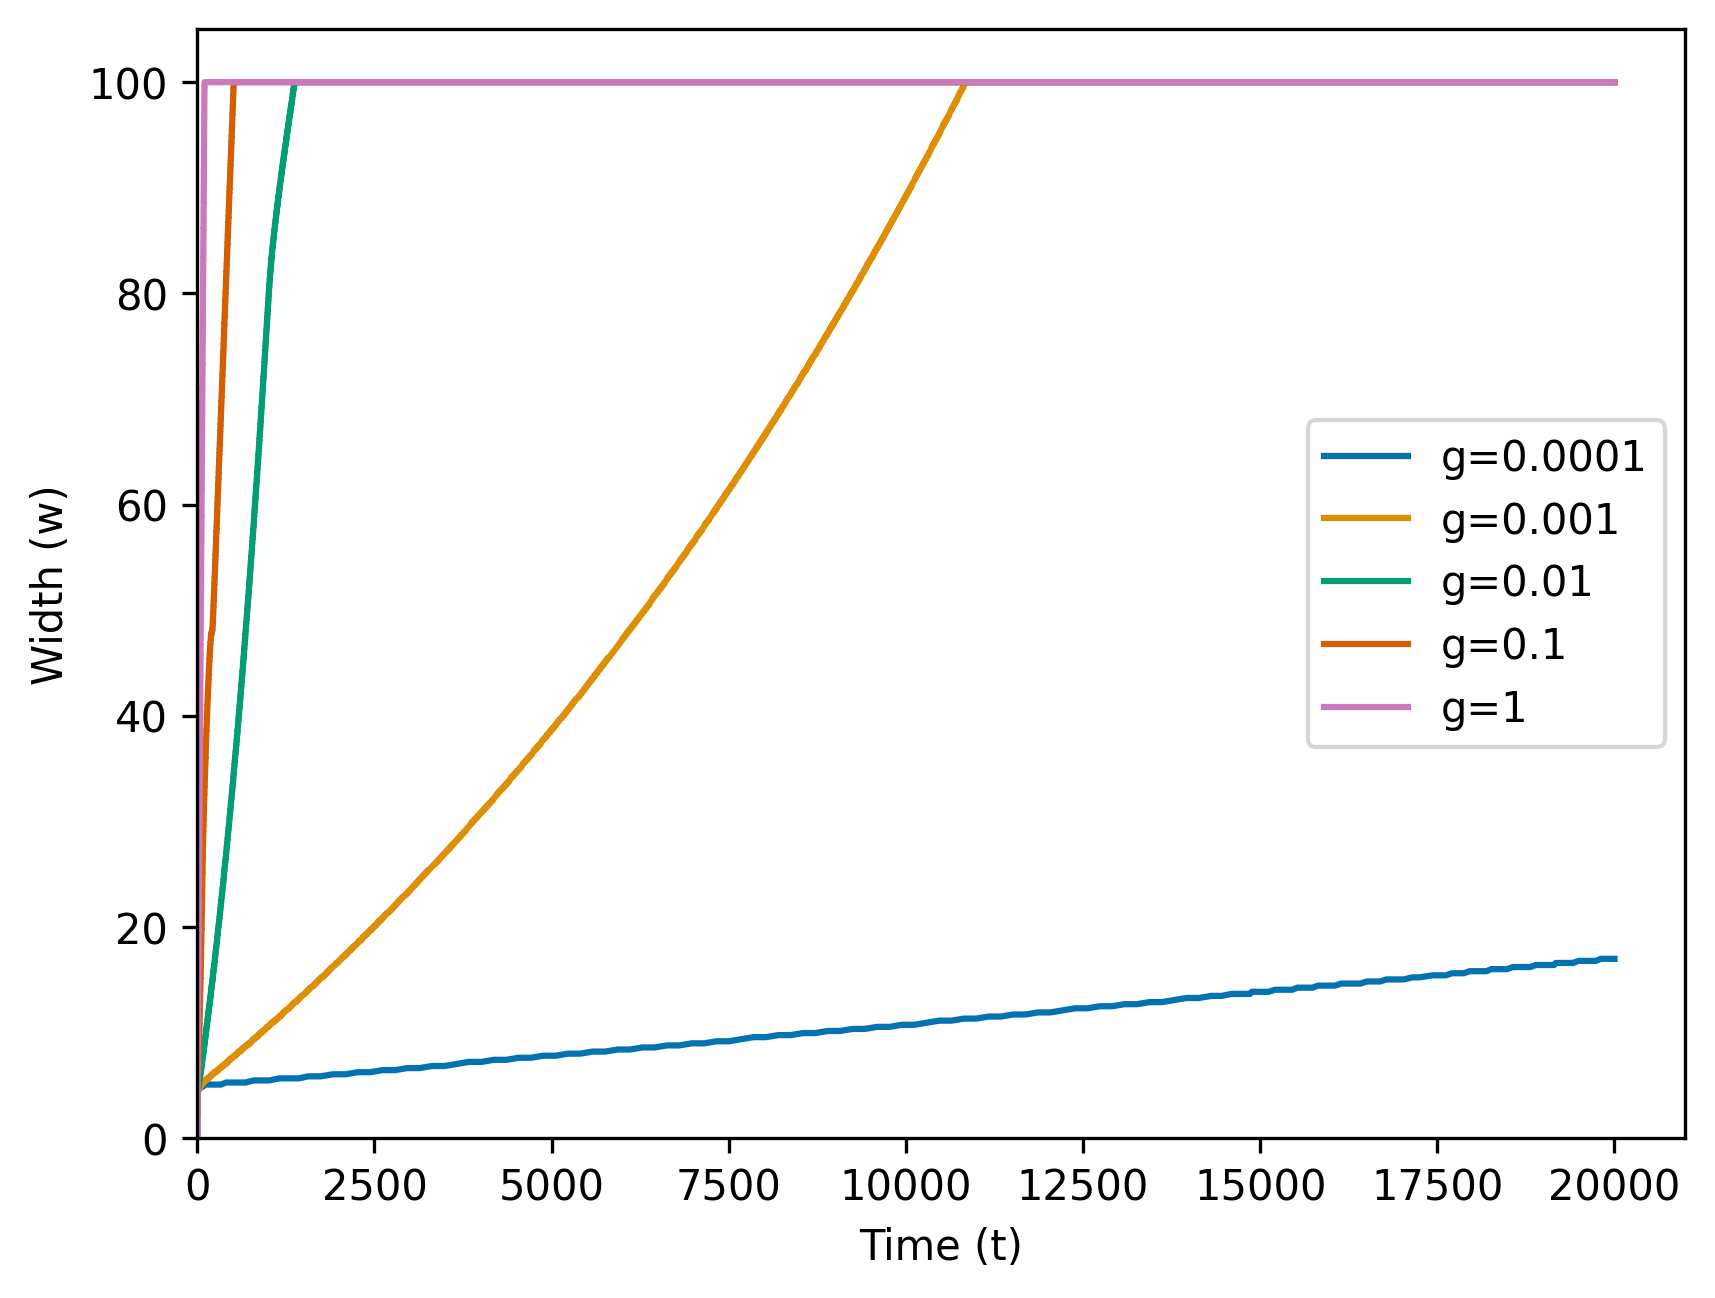
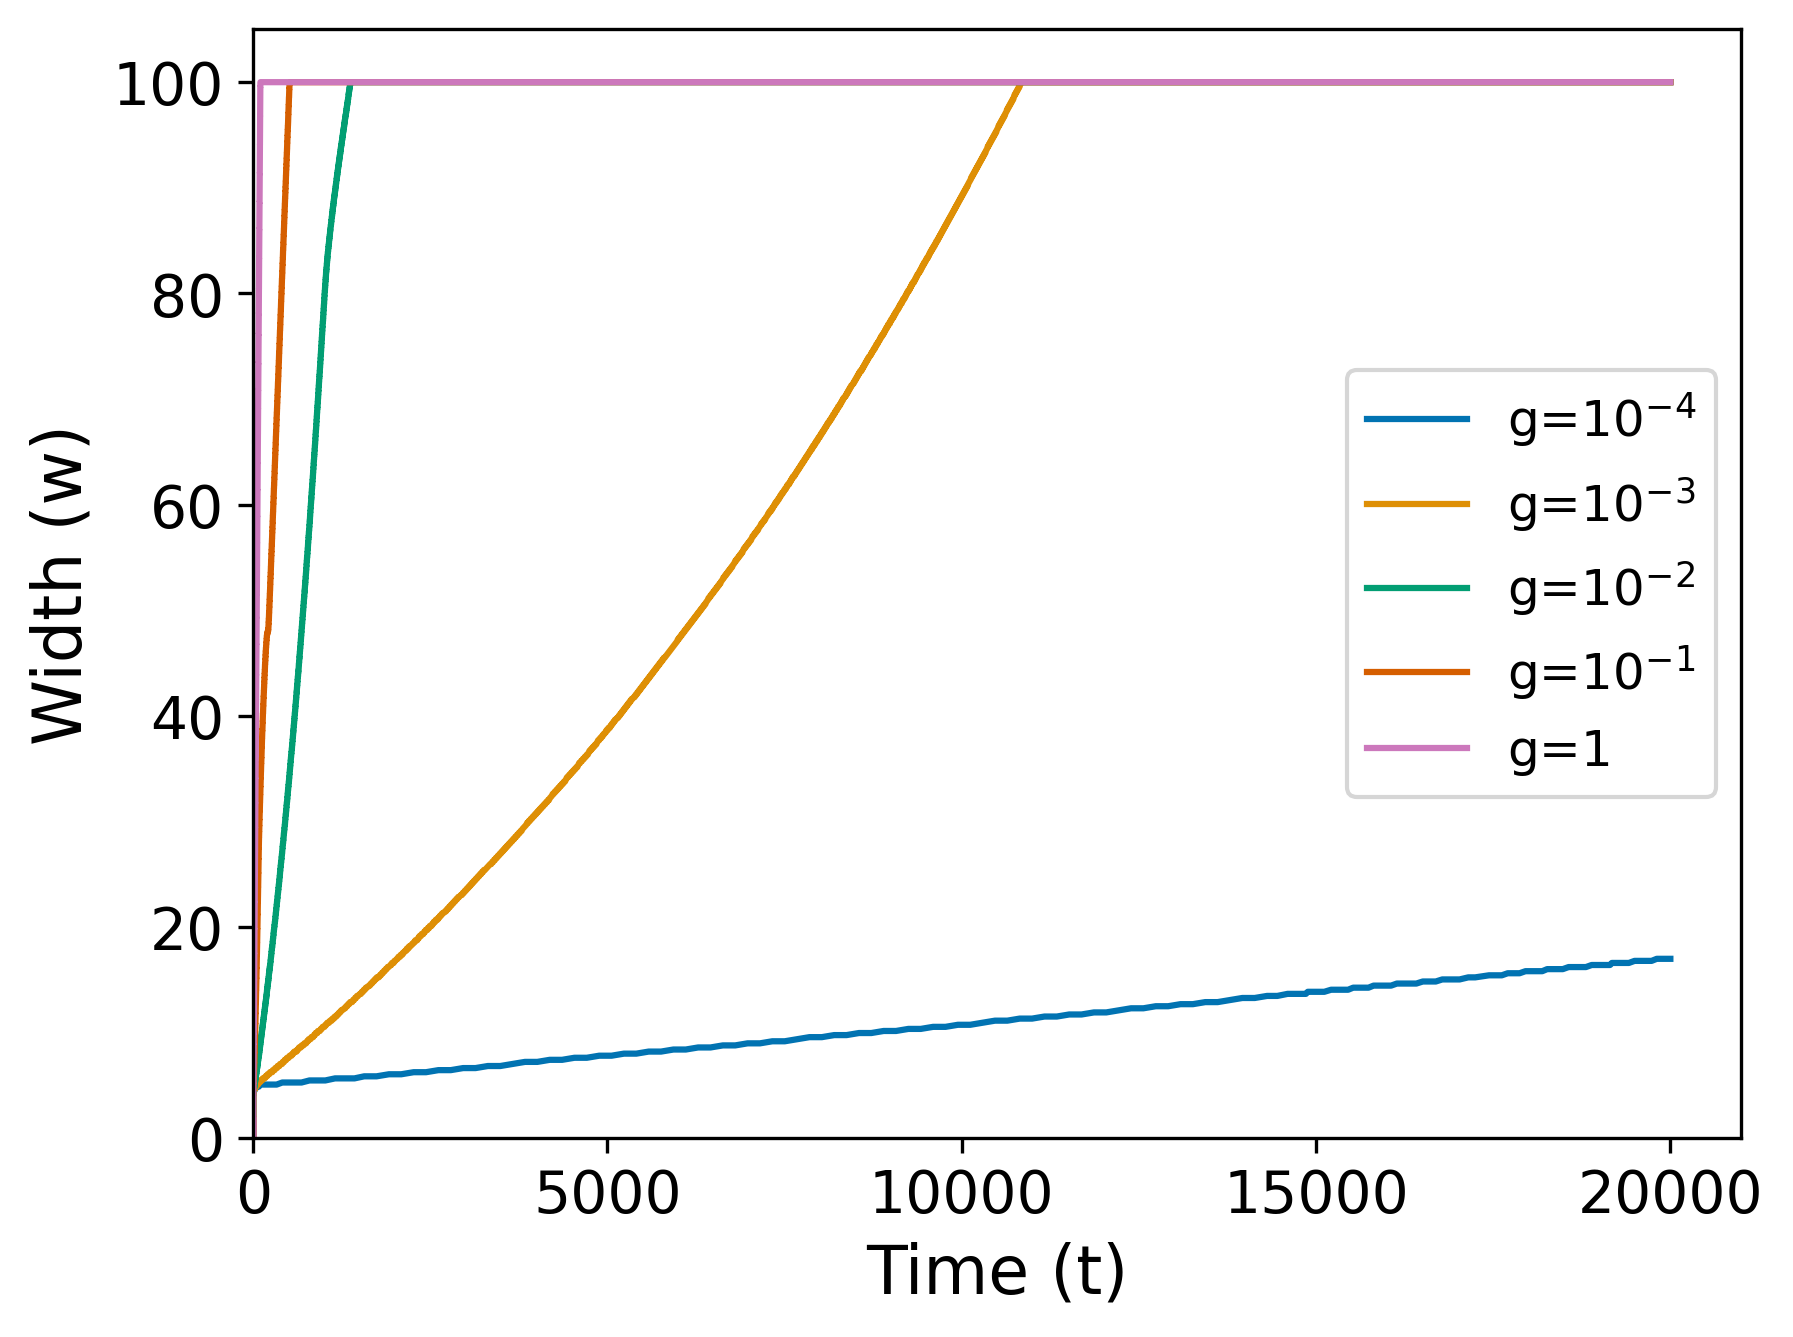
Redo plots with larger fontsize

diff --git a/max_height_evolution.py b/max_height_evolution.py
@@ -5,6 +5,7 @@ import seaborn as sns
 import time
 import os
 import itertools
+from matplotlib.ticker import ScalarFormatter
 
 from OneD_FDM_simple_model import FDM_OneD_Thin_Film_Model
 
@@ -131,12 +132,22 @@ def replot_max_height(csv_filename, plot_filename = None,
 
     fig, ax = plt.subplots()
     palette = sns.color_palette("colorblind", 5)
+
+    sci_formatter = ScalarFormatter(useMathText=True)
+    sci_formatter.set_powerlimits((-2, 2))  # always use 10^n if outside [-2, 2]
+
     i = 0
     for keys, sub in grouped:
         # build label
         if not isinstance(keys, tuple):
             keys = (keys,)
-        label = ", ".join(f"{k}={v:g}" for k, v in zip(series_params, keys))
+
+        label_parts = []
+        for k, v in zip(series_params, keys):
+            val = sci_formatter.format_data(v)
+            label_parts.append(fr"{k}=${val}$")
+        label = ", ".join(label_parts)
+
         sub_sorted = sub.sort_values(x_col)
         linestyle = "-"
         if keys[0] == 1e-4:
@@ -168,80 +179,16 @@ def replot_max_height(csv_filename, plot_filename = None,
 
     plt.show()
 
-def replot_max_height_seaborn(csv_filename, plot_filename = None, 
-                      x_col="t", y_col="h_max", series_params=None, loglog=False, scaling = False):
-    """
-    Replot saved results. If series_params is None, uses all columns except x,y.
-    """
-    df = pd.read_csv(csv_filename)
-    g_array = df["g"].values.unique()
-    # Apply scaling rule
-    if scaling:
-        g_vals = df["g"].values
-        t_vals = df[x_col].values
-
-        df["t_scaled"] = g_vals * t_vals
-
-        x_col = "t_scaled"
-
-    if loglog:
-        df = df[df[x_col] >= 1]
-
-    if series_params is None:
-        exclude = {x_col, y_col, "t"}
-        series_params = [c for c in df.columns if c not in exclude]
-
-    # group by parameter combinations
-    grouped = df.groupby(series_params, dropna=False)
-
-    sns.set_style("white")
-
-    fig, ax = plt.subplots()
-    norm = plt.Normalize(df["g"].min(), df["g"].max())
-    cmap = sns.color_palette(palette = "crest", as_cmap=True)
-    for keys, sub in grouped:
-        # build label
-        if not isinstance(keys, tuple):
-            keys = (keys,)
-        label = ", ".join(f"{k}={v:g}" for k, v in zip(series_params, keys))
-        sub_sorted = sub.sort_values(x_col)
-        color = cmap(norm(keys))
-        linestyle = "solid"
-        if keys == 1e-4:
-            linestyle = "-"
-        if keys == 1e-3:
-            linestyle = '--'
-        ax.plot(sub_sorted[x_col].values, sub_sorted[y_col].values, color = color,
-                linestyle = linestyle)
-
-    sm = plt.cm.ScalarMappable(cmap=cmap, norm = norm)
-    sm.set_array([])
-    cbar = fig.colorbar(sm, ax = ax)
-    cbar.set_ticks(g_array)
-    cbar.set_ticklabels([f"{g}" for g in g_array])
-    cbar.set_label("g")
-    ax.set_ylim()
-    ax.set_xlabel("Time (t)")
-    ax.set_ylabel("$h_{max}(t)$")
-    if scaling:
-        ax.set_xlabel("$t*g$")
-        ax.set_xlim(0, 25)
-    if loglog:
-        ax.set_xscale('log')
-        ax.set_xlim(left = 1)
-    ax.legend()
-
-    if plot_filename:
-        output_dir = os.path.dirname(plot_filename)
-        if output_dir:
-            os.makedirs(output_dir, exist_ok = True)
-        plt.savefig(plot_filename, dpi = 300, bbox_inches = 'tight')
-        print(f"Saved figure to: {plot_filename}")
-
-    plt.show()
 
 if __name__ == '__main__':
-
+    plt.rcParams.update({
+            "axes.titlesize": 18,
+            "axes.labelsize": 16,
+            "xtick.labelsize": 14,
+            "ytick.labelsize": 14,
+            "legend.fontsize": 12,
+            "figure.dpi": 100 #change resolution, standard is 100
+        })
     choice = input("Do max height evolution (a) or replot from data (b): ")
 
     if choice == "a":
@@ -267,8 +214,8 @@ if __name__ == '__main__':
     elif choice == "b":
         #csv_filename = "Results/data/max_height_evolution_g_both_regimes.csv"
         #plot_filename = "Results/plots/max_height_evolution_g_both_regimes.png"
-        csv_filename = "Results/data/max_height_evolution_g_t2500.csv"
-        plot_filename = "Results/plots/max_height_evolution_g_t2500_log.png"
+        csv_filename = "Results/data/max_height_evolution_g_both_regimes.csv"
+        plot_filename = "Results/plots/max_height_evolution_g_both_regimes.png"
 
-        replot_max_height(csv_filename = csv_filename, plot_filename=plot_filename, loglog=True, scaling=False)
+        replot_max_height(csv_filename = csv_filename, plot_filename=plot_filename, loglog=False, scaling=False)
         

diff --git a/width_evolution.py b/width_evolution.py
@@ -9,6 +9,7 @@ import os
 import csv
 
 from OneD_FDM_simple_model import FDM_OneD_Thin_Film_Model
+from matplotlib.ticker import ScalarFormatter
 from helper_functions import find_first_k_minima
 
 # models
@@ -281,13 +282,23 @@ def replot_width(csv_filename, csv_filename2 = None, plot_filename = None, min_w
     # group by parameter combinations
     grouped = df.groupby(series_params, dropna=False)
     palette = sns.color_palette("colorblind", 5) # make a colorblind save scale
+
+    sci_formatter = ScalarFormatter(useMathText=True)
+    sci_formatter.set_powerlimits((-2, 2))
+
     i = 0
     fig, ax = plt.subplots()
     for keys, sub in grouped:
         # build label
         if not isinstance(keys, tuple):
             keys = (keys,)
-        label = ", ".join(f"{k}={v:g}" for k, v in zip(series_params, keys))
+
+        label_parts = []
+        for k, v in zip(series_params, keys):
+            val = sci_formatter.format_data(v)
+            label_parts.append(fr"{k}=${val}$")
+        label = ", ".join(label_parts)
+        
         sub_sorted = sub.sort_values(x_col)
         x_plot = sub_sorted[x_col].values
         y_plot = sub_sorted[y_col].values
@@ -352,7 +363,13 @@ def replot_width(csv_filename, csv_filename2 = None, plot_filename = None, min_w
             # build label
             if not isinstance(keys, tuple):
                 keys = (keys,)
-            label = ", ".join(f"{k}={v:g}" for k, v in zip(series_params, keys))
+
+            label_parts = []
+            for k, v in zip(series_params, keys):
+                val = sci_formatter.format_data(v)
+                label_parts.append(fr"{k}=${val}$")
+            label = ", ".join(label_parts)
+        
             sub_sorted = sub.sort_values(x_col)
             x_plot = sub_sorted[x_col].values
             y_plot = sub_sorted[y_col].values
@@ -387,6 +404,15 @@ def replot_width(csv_filename, csv_filename2 = None, plot_filename = None, min_w
     plt.show()
 
 if __name__ == "__main__":
+    plt.rcParams.update({
+            "axes.titlesize": 18,
+            "axes.labelsize": 16,
+            "xtick.labelsize": 14,
+            "ytick.labelsize": 14,
+            "legend.fontsize": 12,
+            "figure.dpi": 100 #change resolution, standard is 100
+        })
+    
     choice = input("Width simulation (a) or replot from data (b): ")
     
     if choice == "a":
@@ -411,9 +437,9 @@ if __name__ == "__main__":
         )
 
     elif choice == "b":
-        plot_filename = "Results/plots/width_evolution_both_regimes.png"
-        csv_filename = "Results/data/width_evolution_g_L200_monolayer.csv"
+        plot_filename = "Results/plots/width_evolution_g_log.png"
+        csv_filename = "Results/data/width_evolution_g.csv"
         csv_filename2 = "Results/data/width_evolution_g.csv"
 
-        replot_width(csv_filename=csv_filename, csv_filename2=csv_filename2, plot_filename=plot_filename,
-                     xlog = False, scaling=False, min_width=5, fit = False)
+        replot_width(csv_filename=csv_filename, csv_filename2=None, plot_filename=plot_filename,
+                     xlog = True, scaling=False, min_width=5, fit = False)

diff --git a/plot_grid_t_event.py b/plot_grid_t_event.py
@@ -3,6 +3,7 @@ import matplotlib.pyplot as plt
 import os
 import pandas as pd
 import time
+from matplotlib.ticker import ScalarFormatter
 
 def plot_event_profiles_grid(
         g_values, epsilon_values,
@@ -78,6 +79,10 @@ def replot_event_profiles_from_csv(csv_filename, x, g_values, epsilon_values,
     ncols, nrows = len(epsilon_values), len(g_values)
     fig, axes = plt.subplots(nrows, ncols, figsize=(7.5, 10.5), sharex=True, sharey=True)
 
+    sci_formatter = ScalarFormatter(useMathText=True)
+    sci_formatter.set_scientific(True)
+    sci_formatter.set_powerlimits((0, 0))  # force sci notation
+
     for i, g in enumerate(g_values):
         for j, eps in enumerate(epsilon_values):
             ax = axes[nrows - 1 - i, j]
@@ -94,10 +99,15 @@ def replot_event_profiles_from_csv(csv_filename, x, g_values, epsilon_values,
             ax.set_xlim(0, 100)
             ax.set_ylim(0, 5.5)
 
+            g_str = sci_formatter.format_data(g)
+
             if i == 0:
                 ax.set_xlabel(fr"x, $\epsilon$ = {eps}")
             if j == 0:
-                ax.set_ylabel(fr"$h(x, t_{{complete}})$" +"\n" + f"g = {g}")
+                if g == 10:
+                    ax.set_ylabel(fr"$h(x, t_{{complete}})$" +"\n" + fr"$g = {g}$")
+                else:
+                    ax.set_ylabel(fr"$h(x, t_{{complete}})$" +"\n" + fr"$g = {g_str}$")
 
     if plot_filename:
         outdir = os.path.dirname(plot_filename)
@@ -121,4 +131,4 @@ if __name__ == "__main__":
         _, _, _, x = run_until_first_layer({'epsilon': 0, 'g': 10})
         csv_filename = "Results/data/event_profiles.csv"
         plot_filename = "Results/plots/event_profiles.png"
-        replot_event_profiles_from_csv(csv_filename, x, g_values, epsilon_values, plot_filname=plot_filename)
+        replot_event_profiles_from_csv(csv_filename, x, g_values, epsilon_values, plot_filname=None)

diff --git a/OneD_FDM_simple_model.py b/OneD_FDM_simple_model.py
@@ -202,9 +202,16 @@ class FDM_OneD_Thin_Film_Model(OneD_Base_Model):
 
 
 if __name__ == "__main__":
-    
-    params = {'amplitude': 1.0, 'g': 1e-3, 'L': 100, 'N': 1024, 'epsilon': 1}
-    T = 2000
+    plt.rcParams.update({
+            "axes.titlesize": 18,
+            "axes.labelsize": 16,
+            "xtick.labelsize": 14,
+            "ytick.labelsize": 14,
+            "legend.fontsize": 14,
+            "figure.dpi": 100 #change resolution, standard is 100
+        })
+    params = {'amplitude': 1.0, 'g': 1e-3, 'L': 100, 'N': 1024, 'epsilon': 0.5}
+    T = 20000
     model = FDM_OneD_Thin_Film_Model(use_numba= False, **params)
     #t_eval = [500, 1000, 1250, 1500, 1750, 2000, 2250, 2500]
     t_eval = np.linspace(0, T, 6)
@@ -222,12 +229,13 @@ if __name__ == "__main__":
         f = model.f
     )
 
-    plot_filename = 'thin_film_g10-3_eps1_t2000'
+    plot_filename = 'thin_film_g10-2_multilayer_regime'
+    plot_filename = 'breakdown_solution'
     save_filename = "Results/values/thin_film_profile.npz"
     
     figure_handler = fh.FigureHandler(model)
     #model.save_profile_values(times, H, save_filename)
-    figure_handler.plot_profiles(H.T, times, pot_minima = h_mins, plot_filename = plot_filename)
+    figure_handler.plot_profiles(H.T, times, pot_minima = h_mins, plot_filename = None)
     
     #figure_handler.plot_binding_energy(model.f, filename = "binding_potential")
     #figure_handler.plot_growth_function(model.growth_term, filename = "growth_function")

diff --git a/plot_from_data.py b/plot_from_data.py
@@ -84,8 +84,9 @@ def plot_critical_time_event_from_csv(csv_filename, xaxis_param='g', series_para
     if series_params:
         grouped = df.groupby(series_params)
         for series_key, group in grouped:
-            opacity = 0.5
-            if series_key[0] == 0.5 or series_key[0] == 2: continue
+            opacity = 0.7
+            # nasty way for not plotting all lines
+            #if series_key[0] == 0.5 or series_key[0] == 2: continue
             group = group.sort_values(by=xaxis_param)
             x_vals = group[xaxis_param].values
             t_vals = group['t_event'].values
@@ -380,11 +381,11 @@ if __name__ == "__main__":
 
     if choice == 'a':
         csv_path = "Results/data/critical_time_eps.csv"
-        plot_filename = "Results/plots/critical_time_log_log_fit.png"
+        plot_filename = "Results/plots/critical_time_log_log.png"
         plot_critical_time_event_from_csv(
             csv_filename=csv_path,
             plot_filename=plot_filename,
-            loglog=True, fit=True
+            loglog=True, fit=False
         )
 
     elif choice == 'b':

diff --git a/OneD_thin_film_model.py b/OneD_thin_film_model.py
@@ -22,7 +22,7 @@ class OneD_Base_Model(ABC):
         """
         # Default values
         self.params = {
-            'L': 100, 'N': 1024, 'gamma': 1, 'g': 0.1, 'ha': 0.8, 'hf': 0.1, 'h_max': 5, 'Q': 1.0, 'epsilon': 1.0,
+            'L': 100, 'N': 1024, 'gamma': 1, 'g': 10**(-4), 'ha': 0.8, 'hf': 0.1, 'h_max': 5, 'Q': 1.0, 'epsilon': 1.0,
             'a': 0.5, 'b': np.pi, 'c': 1.0, 'd': 10, 'e': 0.01, 'k': 2*np.pi,
             'amplitude': 1.0, 'var': 10, 'dt': 0.1
         }

diff --git a/figure_handler.py b/figure_handler.py
@@ -88,6 +88,13 @@ class FigureHandler:
         df = pd.DataFrame(results)
 
         sns.set_theme(style = "white")
+        plt.rcParams.update({
+            "axes.titlesize": 18,
+            "axes.labelsize": 16,
+            "xtick.labelsize": 14,
+            "ytick.labelsize": 14,
+            "legend.fontsize": 14,
+        })
         cmap = sns.color_palette(palette = "crest", as_cmap=True)
         fig, ax = plt.subplots()
         sns.lineplot(

diff --git a/binding_potential_plots.py b/binding_potential_plots.py
@@ -21,6 +21,14 @@ def k(x):
 
 
 def main():
+    plt.rcParams.update({
+            "axes.titlesize": 18,
+            "axes.labelsize": 16,
+            "xtick.labelsize": 14,
+            "ytick.labelsize": 14,
+            "legend.fontsize": 12,
+            "figure.dpi": 100 #change resolution, standard is 100
+        })
     # Domain (avoid x=0 to prevent division-by-zero)
     x_min, x_max = 0.1, 5
     x = np.linspace(x_min, x_max, 10001)

diff --git a/phase_diagram.py b/phase_diagram.py
@@ -287,7 +287,7 @@ def plot_layer_phase_diagram_seaborn(
     first_color = sns.color_palette("Greens", n_colors = 3)[2] # medium green
     blue_colors = sns.color_palette("Blues", n_colors = nL) 
     area_colors = [first_color] + blue_colors
-    layer_name = ["1 Layer", "2 Layer", "3 Layer", "4 Layer"]
+    layer_name = ["1 Layer", "2 Layers", "3 Layers", "4 Layers"]
 
     # Prepare curves per layer (sorted in x)
     curves = {}
